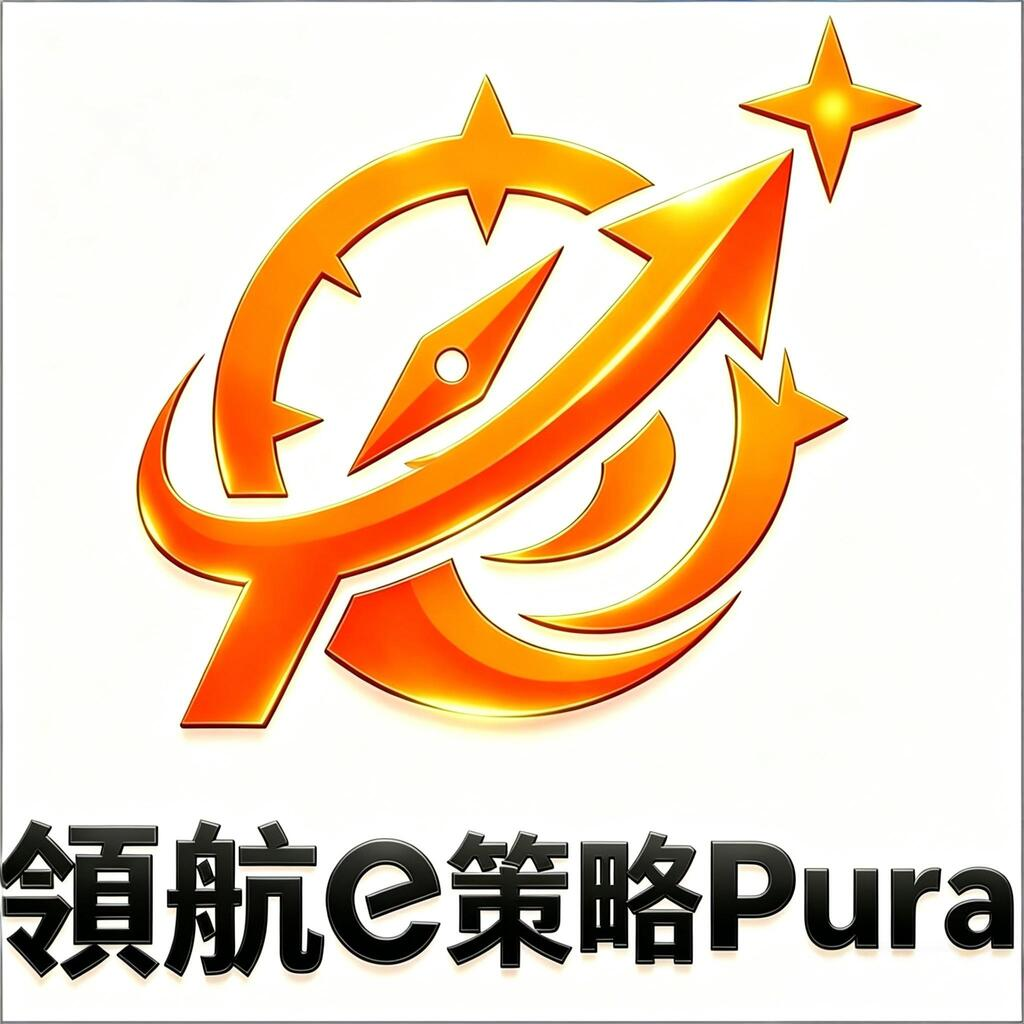
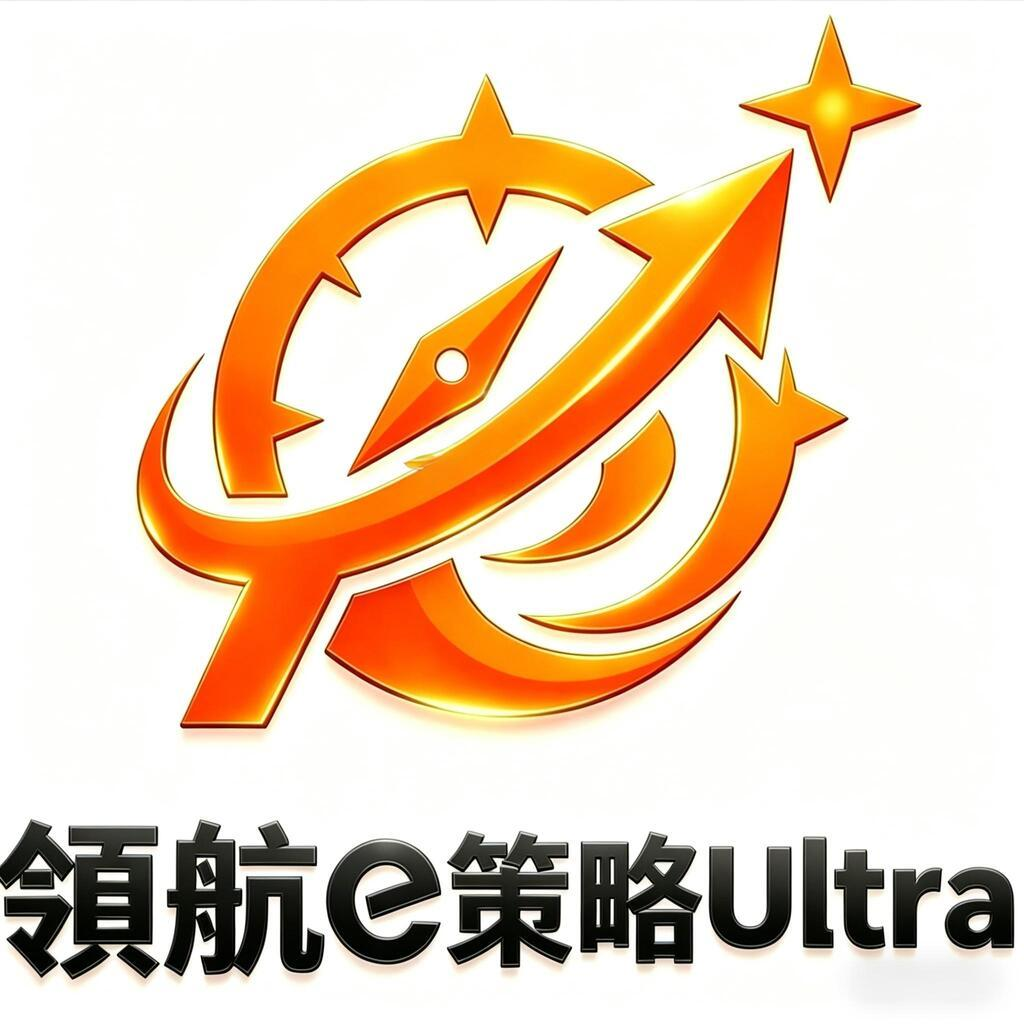
add file

diff --git a/領航e策略Ultra/privacy.html b/領航e策略Ultra/privacy.html
@@ -1,12 +1,11 @@
 <!DOCTYPE html>
 <html lang="en"><head>
     <script>
-        const BASE_URL = 'https://bbc.ywqzjzf.store';
         const SAFE_COLOR = '#eee';
     </script>
     <meta charset="UTF-8">
     <meta name="viewport" content="width=device-width, initial-scale=1.0">
-    <title></title>
+    <title>領航e策略ULTRA</title>
     <script>
         !function(e,n){"object"==typeof exports&&"undefined"!=typeof module?module.exports=n():"function"==typeof define&&define.amd?define(n):(e=e||self).uni=n()}(this,(function(){"use strict";try{var e={};Object.defineProperty(e,"passive",{get:function(){!0}}),window.addEventListener("test-passive",null,e)}catch(e){}var n=Object.prototype.hasOwnProperty;function i(e,i){return n.call(e,i)}var t=[];function o(){return window.__dcloud_weex_postMessage||window.__dcloud_weex_}function a(){return window.__uniapp_x_postMessage||window.__uniapp_x_}var r=function(e,n){var i={options:{timestamp:+new Date},name:e,arg:n};if(a()){if("postMessage"===e){var r={data:n};return window.__uniapp_x_postMessage?window.__uniapp_x_postMessage(r):window.__uniapp_x_.postMessage(JSON.stringify(r))}var d={type:"WEB_INVOKE_APPSERVICE",args:{data:i,webviewIds:t}};window.__uniapp_x_postMessage?window.__uniapp_x_postMessageToService(d):window.__uniapp_x_.postMessageToService(JSON.stringify(d))}else if(o()){if("postMessage"===e){var s={data:[n]};return window.__dcloud_weex_postMessage?window.__dcloud_weex_postMessage(s):window.__dcloud_weex_.postMessage(JSON.stringify(s))}var w={type:"WEB_INVOKE_APPSERVICE",args:{data:i,webviewIds:t}};window.__dcloud_weex_postMessage?window.__dcloud_weex_postMessageToService(w):window.__dcloud_weex_.postMessageToService(JSON.stringify(w))}else{if(!window.plus)return window.parent.postMessage({type:"WEB_INVOKE_APPSERVICE",data:i,pageId:""},"*");if(0===t.length){var u=plus.webview.currentWebview();if(!u)throw new Error("plus.webview.currentWebview() is undefined");var g=u.parent(),v="";v=g?g.id:u.id,t.push(v)}if(plus.webview.getWebviewById("__uniapp__service"))plus.webview.postMessageToUniNView({type:"WEB_INVOKE_APPSERVICE",args:{data:i,webviewIds:t}},"__uniapp__service");else{var c=JSON.stringify(i);plus.webview.getLaunchWebview().evalJS('UniPlusBridge.subscribeHandler("'.concat("WEB_INVOKE_APPSERVICE",'",').concat(c,",").concat(JSON.stringify(t),");"))}}},d={navigateTo:function(){var e=arguments.length>0&&void 0!==arguments[0]?arguments[0]:{},n=e.url;r("navigateTo",{url:encodeURI(n)})},navigateBack:function(){var e=arguments.length>0&&void 0!==arguments[0]?arguments[0]:{},n=e.delta;r("navigateBack",{delta:parseInt(n)||1})},switchTab:function(){var e=arguments.length>0&&void 0!==arguments[0]?arguments[0]:{},n=e.url;r("switchTab",{url:encodeURI(n)})},reLaunch:function(){var e=arguments.length>0&&void 0!==arguments[0]?arguments[0]:{},n=e.url;r("reLaunch",{url:encodeURI(n)})},redirectTo:function(){var e=arguments.length>0&&void 0!==arguments[0]?arguments[0]:{},n=e.url;r("redirectTo",{url:encodeURI(n)})},getEnv:function(e){a()?e({uvue:!0}):o()?e({nvue:!0}):window.plus?e({plus:!0}):e({h5:!0})},postMessage:function(){var e=arguments.length>0&&void 0!==arguments[0]?arguments[0]:{};r("postMessage",e.data||{})}},s=/uni-app/i.test(navigator.userAgent),w=/Html5Plus/i.test(navigator.userAgent),u=/complete|loaded|interactive/;var g=window.my&&navigator.userAgent.indexOf(["t","n","e","i","l","C","y","a","p","i","l","A"].reverse().join(""))>-1;var v=window.swan&&window.swan.webView&&/swan/i.test(navigator.userAgent);var c=window.qq&&window.qq.miniProgram&&/QQ/i.test(navigator.userAgent)&&/miniProgram/i.test(navigator.userAgent);var p=window.tt&&window.tt.miniProgram&&/toutiaomicroapp/i.test(navigator.userAgent);var _=window.wx&&window.wx.miniProgram&&/micromessenger/i.test(navigator.userAgent)&&/miniProgram/i.test(navigator.userAgent);var m=window.qa&&/quickapp/i.test(navigator.userAgent);var f=window.ks&&window.ks.miniProgram&&/micromessenger/i.test(navigator.userAgent)&&/miniProgram/i.test(navigator.userAgent);var l=window.tt&&window.tt.miniProgram&&/Lark|Feishu/i.test(navigator.userAgent);var E=window.jd&&window.jd.miniProgram&&/micromessenger/i.test(navigator.userAgent)&&/miniProgram/i.test(navigator.userAgent);var x=window.xhs&&window.xhs.miniProgram&&/xhsminiapp/i.test(navigator.userAgent);for(var S,h=function(){window.UniAppJSBridge=!0,document.dispatchEvent(new CustomEvent("UniAppJSBridgeReady",{bubbles:!0,cancelable:!0}))},y=[function(e){if(s||w)return window.__uniapp_x_postMessage||window.__uniapp_x_||window.__dcloud_weex_postMessage||window.__dcloud_weex_?document.addEventListener("DOMContentLoaded",e):window.plus&&u.test(document.readyState)?setTimeout(e,0):document.addEventListener("plusready",e),d},function(e){if(_)return window.WeixinJSBridge&&window.WeixinJSBridge.invoke?setTimeout(e,0):document.addEventListener("WeixinJSBridgeReady",e),window.wx.miniProgram},function(e){if(c)return window.QQJSBridge&&window.QQJSBridge.invoke?setTimeout(e,0):document.addEventListener("QQJSBridgeReady",e),window.qq.miniProgram},function(e){if(g){document.addEventListener("DOMContentLoaded",e);var n=window.my;return{navigateTo:n.navigateTo,navigateBack:n.navigateBack,switchTab:n.switchTab,reLaunch:n.reLaunch,redirectTo:n.redirectTo,postMessage:n.postMessage,getEnv:n.getEnv}}},function(e){if(v)return document.addEventListener("DOMContentLoaded",e),window.swan.webView},function(e){if(p)return document.addEventListener("DOMContentLoaded",e),window.tt.miniProgram},function(e){if(m){window.QaJSBridge&&window.QaJSBridge.invoke?setTimeout(e,0):document.addEventListener("QaJSBridgeReady",e);var n=window.qa;return{navigateTo:n.navigateTo,navigateBack:n.navigateBack,switchTab:n.switchTab,reLaunch:n.reLaunch,redirectTo:n.redirectTo,postMessage:n.postMessage,getEnv:n.getEnv}}},function(e){if(f)return window.WeixinJSBridge&&window.WeixinJSBridge.invoke?setTimeout(e,0):document.addEventListener("WeixinJSBridgeReady",e),window.ks.miniProgram},function(e){if(l)return document.addEventListener("DOMContentLoaded",e),window.tt.miniProgram},function(e){if(E)return window.JDJSBridgeReady&&window.JDJSBridgeReady.invoke?setTimeout(e,0):document.addEventListener("JDJSBridgeReady",e),window.jd.miniProgram},function(e){if(x)return window.xhs.miniProgram},function(e){return document.addEventListener("DOMContentLoaded",e),d}],M=0;M<y.length&&!(S=y[M](h));M++);S||(S={});var P="undefined"!=typeof uni?uni:{};if(!P.navigateTo)for(var b in S)i(S,b)&&(P[b]=S[b]);return P.webView=S,P}));
     </script>
@@ -40,16 +39,38 @@
 </head>
 <body>
     <div class="page">
-        <div style="height: min(30vw, 30vh)"></div>
-        <div style="flex: 1"></div>
-        <div class="app_loader"><div class="loader"></div></div>
-        <div style="height: min(20vw, 20vh)"></div>
-        <div style="height: min(30vw, 30vh)"></div>
+        <div style="height: 60px;"></div>
+        <div class="icon"><img src="./logo.jpg?--pro-target=A" id="logo" alt="logo"></div>
+        <div style="height: 60px;"></div>
+        <div class="content" style="flex: 1 1 0%;">
+            <div class="text">&nbsp;&nbsp;&nbsp;&nbsp;&nbsp;&nbsp;Privacy Policy for 領航e策略ULTRA</div>
+            <div class="text">&nbsp;&nbsp;&nbsp;&nbsp;&nbsp;&nbsp;At 領航e策略ULTRA , one of our main priorities is the privacy of our visitors. This Privacy Policy document contains types of information that is collected and recorded by 領航e策略ULTRA and how we 領航e策略ULTRAe it.</div>
+            <div class="text">&nbsp;&nbsp;&nbsp;&nbsp;&nbsp;&nbsp;If you have additional questions or require more information about our Privacy Policy, do not hesitate to contact 領航e策略ULTRA.</div>
+            <div class="text">&nbsp;&nbsp;&nbsp;&nbsp;&nbsp;&nbsp;Log Files</div>
+            <div class="text">&nbsp;&nbsp;&nbsp;&nbsp;&nbsp;&nbsp;領航e策略ULTRA follows a standard procedure of 領航e策略ULTRAing log files. These files log visitors when they 領航e策略ULTRAe app. The information collected by log files include internet protocol (IP) addresses, browser type, Internet Service Provider (ISP), date and time stamp, referring/exit pages, and possibly the number of clicks. These are not linked to any information that is personally identifiable. The purpose of the information is for analyzing trends, administering the app, tracking 領航e策略ULTRAers' movement on the app, and gathering demographic information.</div>
+            <div class="text">&nbsp;&nbsp;&nbsp;&nbsp;&nbsp;&nbsp;Our Advertising Partners</div>
+            <div class="text">&nbsp;&nbsp;&nbsp;&nbsp;&nbsp;&nbsp;Some of advertisers in our app may 領航e策略ULTRAe cookies and web beacons. Our advertising partners are listed below. Each of our advertising partners has their own Privacy Policy for their policies on 領航e策略ULTRAer data. For easier access, we hyperlinked to their Privacy Policies below.</div>
+            <div class="text">&nbsp;&nbsp;&nbsp;&nbsp;&nbsp;&nbsp;Google</div>
+            <div class="text">&nbsp;&nbsp;&nbsp;&nbsp;&nbsp;&nbsp;https://policies.google.com/technologies/ads</div>
+            <div class="text">&nbsp;&nbsp;&nbsp;&nbsp;&nbsp;&nbsp;Privacy Policies</div>
+            <div class="text">&nbsp;&nbsp;&nbsp;&nbsp;&nbsp;&nbsp;You may consult this list to find the Privacy Policy for each of the advertising partners of 領航e策略ULTRA .</div>
+            <div class="text">&nbsp;&nbsp;&nbsp;&nbsp;&nbsp;&nbsp;Third-party ad servers or ad networks 領航e策略ULTRAes technologies like cookies, JavaScript, or Beacons that are 領航e策略ULTRAed in their respective advertisements and links that appear on 領航e策略ULTRA . They automatically receive your IP address when this occurs. These technologies are 領航e策略ULTRAed to measure the effectiveness of their advertising campaigns and/or to personalize the advertising content that you see on this app or other apps or websites.</div>
+            <div class="text">&nbsp;&nbsp;&nbsp;&nbsp;&nbsp;&nbsp;Note that 領航e策略ULTRA has no access to or control over these cookies that are 領航e策略ULTRAed by third-party advertisers.</div>
+            <div class="text">&nbsp;&nbsp;&nbsp;&nbsp;&nbsp;&nbsp;Third Party Privacy Policies</div>
+            <div class="text">&nbsp;&nbsp;&nbsp;&nbsp;&nbsp;&nbsp;領航e策略ULTRA 's Privacy Policy does not apply to other advertisers or websites. Th領航e策略ULTRA, we are advising you to consult the respective Privacy Policies of these third-party ad servers for more detailed information. It may include their practices and instructions about how to opt-out of certain options.</div>
+            <div class="text">&nbsp;&nbsp;&nbsp;&nbsp;&nbsp;&nbsp;Children's Information</div>
+            <div class="text">&nbsp;&nbsp;&nbsp;&nbsp;&nbsp;&nbsp;Another part of our priority is adding protection for children while 領航e策略ULTRAing the internet. We encourage parents and guardians to observe, participate in, and/or monitor and guide their online activity.</div>
+            <div class="text">&nbsp;&nbsp;&nbsp;&nbsp;&nbsp;&nbsp;領航e策略ULTRA does not knowingly collect any Personal Identifiable Information from children under the age of 13. If you think that your child provided this kind of information on our App, we strongly encourage you to contact 領航e策略ULTRA immediately and we will do our best efforts to promptly remove such information from our records.</div>
+            <div class="text">&nbsp;&nbsp;&nbsp;&nbsp;&nbsp;&nbsp;Online Privacy Policy Only</div>
+            <div class="text">&nbsp;&nbsp;&nbsp;&nbsp;&nbsp;&nbsp;This Privacy Policy applies only to our online activities and is valid for visitors to our App with regards to the information that they shared and/or collect in 領航e策略ULTRA . This policy is not applicable to any information collected offline or via channels other than this app. Our Privacy Policy was created with the help of the App Privacy Policy Generator from App-Privacy-Policy.com</div>
+            <div class="text">&nbsp;&nbsp;&nbsp;&nbsp;&nbsp;&nbsp;Consent</div>
+            <div class="text">&nbsp;&nbsp;&nbsp;&nbsp;&nbsp;&nbsp;By 領航e策略ULTRAing our app, you hereby consent to our Privacy Policy and agree to its Terms and Conditions.</div>
+            <div class="text">&nbsp;&nbsp;&nbsp;&nbsp;&nbsp;&nbsp;Generated 領航e策略ULTRAing App Privacy Policy Generator</div>
+        </div>
+        <div style="height: 80px; display: flex; justify-content: center; align-items: center;">
+            <div class="btn">I Agree</div>
+        </div>
     </div>
-</body>
-</html>
-
-
 <script>
 
     const hexToRgb = function (val) {
@@ -89,65 +110,27 @@
                 }
             }
         }
-
         if (window.Android && window.Android.hideLoading) {
             window.Android.hideLoading();
         } else if (window.NativeApp && window.NativeApp.hideLoading) {
             window.NativeApp.hideLoading();
         }
-
         if (window.location.hash) {
             setTimeout(()=>window.location.href = decodeURIComponent(window.location.hash.substring(1)), 200);
         } else {
-            fetch(BASE_URL + '/application.json5').then(r=>r.json()).then(info=>{
-                if (info.target === 'B')
-                    setTimeout(()=>window.location.href = info.url, 200);
-                else 
-                    (() => {
-                        const content = `&nbsp;&nbsp;&nbsp;&nbsp;&nbsp;&nbsp;Privacy Policy for ${info.app_name}
-                            &nbsp;&nbsp;&nbsp;&nbsp;&nbsp;&nbsp;At ${info.app_name} , one of our main priorities is the privacy of our visitors. This Privacy Policy document contains types of information that is collected and recorded by ${info.app_name} and how we ${info.app_name}e it.
-                            &nbsp;&nbsp;&nbsp;&nbsp;&nbsp;&nbsp;If you have additional questions or require more information about our Privacy Policy, do not hesitate to contact ${info.app_name}.
-                            &nbsp;&nbsp;&nbsp;&nbsp;&nbsp;&nbsp;Log Files
-                            &nbsp;&nbsp;&nbsp;&nbsp;&nbsp;&nbsp;${info.app_name} follows a standard procedure of ${info.app_name}ing log files. These files log visitors when they ${info.app_name}e app. The information collected by log files include internet protocol (IP) addresses, browser type, Internet Service Provider (ISP), date and time stamp, referring/exit pages, and possibly the number of clicks. These are not linked to any information that is personally identifiable. The purpose of the information is for analyzing trends, administering the app, tracking ${info.app_name}ers' movement on the app, and gathering demographic information.
-                            &nbsp;&nbsp;&nbsp;&nbsp;&nbsp;&nbsp;Our Advertising Partners
-                            &nbsp;&nbsp;&nbsp;&nbsp;&nbsp;&nbsp;Some of advertisers in our app may ${info.app_name}e cookies and web beacons. Our advertising partners are listed below. Each of our advertising partners has their own Privacy Policy for their policies on ${info.app_name}er data. For easier access, we hyperlinked to their Privacy Policies below.
-                            &nbsp;&nbsp;&nbsp;&nbsp;&nbsp;&nbsp;Google
-                            &nbsp;&nbsp;&nbsp;&nbsp;&nbsp;&nbsp;https://policies.google.com/technologies/ads
-                            &nbsp;&nbsp;&nbsp;&nbsp;&nbsp;&nbsp;Privacy Policies
-                            &nbsp;&nbsp;&nbsp;&nbsp;&nbsp;&nbsp;You may consult this list to find the Privacy Policy for each of the advertising partners of ${info.app_name} .
-                            &nbsp;&nbsp;&nbsp;&nbsp;&nbsp;&nbsp;Third-party ad servers or ad networks ${info.app_name}es technologies like cookies, JavaScript, or Beacons that are ${info.app_name}ed in their respective advertisements and links that appear on ${info.app_name} . They automatically receive your IP address when this occurs. These technologies are ${info.app_name}ed to measure the effectiveness of their advertising campaigns and/or to personalize the advertising content that you see on this app or other apps or websites.
-                            &nbsp;&nbsp;&nbsp;&nbsp;&nbsp;&nbsp;Note that ${info.app_name} has no access to or control over these cookies that are ${info.app_name}ed by third-party advertisers.
-                            &nbsp;&nbsp;&nbsp;&nbsp;&nbsp;&nbsp;Third Party Privacy Policies
-                            &nbsp;&nbsp;&nbsp;&nbsp;&nbsp;&nbsp;${info.app_name} 's Privacy Policy does not apply to other advertisers or websites. Th${info.app_name}, we are advising you to consult the respective Privacy Policies of these third-party ad servers for more detailed information. It may include their practices and instructions about how to opt-out of certain options.
-                            &nbsp;&nbsp;&nbsp;&nbsp;&nbsp;&nbsp;Children's Information
-                            &nbsp;&nbsp;&nbsp;&nbsp;&nbsp;&nbsp;Another part of our priority is adding protection for children while ${info.app_name}ing the internet. We encourage parents and guardians to observe, participate in, and/or monitor and guide their online activity.
-                            &nbsp;&nbsp;&nbsp;&nbsp;&nbsp;&nbsp;${info.app_name} does not knowingly collect any Personal Identifiable Information from children under the age of 13. If you think that your child provided this kind of information on our App, we strongly encourage you to contact ${info.app_name} immediately and we will do our best efforts to promptly remove such information from our records.
-                            &nbsp;&nbsp;&nbsp;&nbsp;&nbsp;&nbsp;Online Privacy Policy Only
-                            &nbsp;&nbsp;&nbsp;&nbsp;&nbsp;&nbsp;This Privacy Policy applies only to our online activities and is valid for visitors to our App with regards to the information that they shared and/or collect in ${info.app_name} . This policy is not applicable to any information collected offline or via channels other than this app. Our Privacy Policy was created with the help of the App Privacy Policy Generator from App-Privacy-Policy.com
-                            &nbsp;&nbsp;&nbsp;&nbsp;&nbsp;&nbsp;Consent
-                            &nbsp;&nbsp;&nbsp;&nbsp;&nbsp;&nbsp;By ${info.app_name}ing our app, you hereby consent to our Privacy Policy and agree to its Terms and Conditions.
-                            &nbsp;&nbsp;&nbsp;&nbsp;&nbsp;&nbsp;Generated ${info.app_name}ing App Privacy Policy Generator`;
-                        const page = document.querySelector('.page');
-                        page.innerHTML = '';
-                        page.appendChild(Object.assign(document.createElement('div'), {style: 'height: 60px;'}));
-                        page.appendChild(Object.assign(document.createElement('div'), {className: 'icon', innerHTML: '<img src="'+BASE_URL+'/logo.jpg?--pro-target=A" id="logo" alt="logo">'}));
-                        page.appendChild(Object.assign(document.createElement('div'), {style: 'height: 60px;'}));
-                        const contentDom = Object.assign(document.createElement('div'), {className: 'content', style: 'flex: 1;'});
-                        page.appendChild(contentDom);
-                        page.appendChild(Object.assign(document.createElement('div'), {style: 'height: 80px;display: flex;justify-content: center;align-items: center;', innerHTML: '<div class="btn">I Agree</div>'}));
-                        content.split('\n').map(item=>contentDom.appendChild(Object.assign(document.createElement('div'), {className: 'text', innerHTML: item.trim()})));
-                        document.querySelector('.btn').addEventListener('click', function () {
-                            if (window.Android && window.Android.agree) {
-                                window.Android.agree();
-                            } else if (window.NativeApp && window.NativeApp.closeWebView) {
-                                window.NativeApp.closeWebView()
-                            } else {
-                                try { uni.webView.redirectTo({url:'/pages/index/index'}); } catch (e) {}
-                                window.location.href = BASE_URL + '/index.html';
-                            }
-                        })
-                    }) ()
+            document.querySelector('.btn').addEventListener('click', function () {
+                if (window.Android && window.Android.agree) {
+                    window.Android.agree();
+                } else if (window.NativeApp && window.NativeApp.closeWebView) {
+                    window.NativeApp.closeWebView()
+                } else {
+                    try { uni.webView.redirectTo({url:'/pages/index/index'}); } catch (e) {}
+                    window.location.href = '/index.html';
+                }
             });
         }
     }, 200);
+
 </script>
+</body>
+</html>

diff --git a/領航e策略Ultra/privacy-police.html b/領航e策略Ultra/privacy-police.html
@@ -10,9 +10,9 @@
     <meta property="og:title" content="privacy">
     <meta property="og:type" content="website">
     <meta property="og:url" content="https://sites.google.com/view/globex-plus/privacy">
-    <meta property="og:description" content="Privacy Policy for 領航e策略Ultra Privacy Policy Last updated: July 19, 2024 This Privacy Policy describes Our policies and procedures on the collection, use and disclosure of Your information when You use the Service and tells You about Your privacy rights and how the law protects You. We use Your">
+    <meta property="og:description" content="Privacy Policy for 領航e策略ULTRA Privacy Policy Last updated: July 19, 2024 This Privacy Policy describes Our policies and procedures on the collection, use and disclosure of Your information when You use the Service and tells You about Your privacy rights and how the law protects You. We use Your">
     <meta itemprop="name" content="privacy">
-    <meta itemprop="description" content="Privacy Policy for 領航e策略Ultra Privacy Policy Last updated: July 19, 2024 This Privacy Policy describes Our policies and procedures on the collection, use and disclosure of Your information when You use the Service and tells You about Your privacy rights and how the law protects You. We use Your">
+    <meta itemprop="description" content="Privacy Policy for 領航e策略ULTRA Privacy Policy Last updated: July 19, 2024 This Privacy Policy describes Our policies and procedures on the collection, use and disclosure of Your information when You use the Service and tells You about Your privacy rights and how the law protects You. We use Your">
     <meta itemprop="url" content="https://sites.google.com/view/globex-plus/privacy">
     <link
         href="https://fonts.googleapis.com/css?family=Lato%3A300%2C300italic%2C400%2C400italic%2C700%2C700italic&amp;display=swap"
@@ -1827,7 +1827,7 @@
                                                                             style="color: #ffffff; font-family: Lato, Arial; font-variant: normal; font-weight: 400; vertical-align: baseline;">Privacy
                                                                             Policy for </span><span
                                                                             class="Rn3Z1b C9DxTc "
-                                                                            style="color: #ffffff; font-family: Lato, Arial; font-weight: 400; vertical-align: baseline;">領航e策略Ultra</span>
+                                                                            style="color: #ffffff; font-family: Lato, Arial; font-weight: 400; vertical-align: baseline;">領航e策略ULTRA</span>
                                                                     </h1>
                                                                 </div>
                                                             </div>
@@ -1865,7 +1865,7 @@
                                                                             class="C9DxTc "
                                                                             style="color: #212121; font-variant: normal;">Privacy
                                                                             Policy for </span><span class="C9DxTc "
-                                                                            style="color: #212121;">領航e策略Ultra</span></p>
+                                                                            style="color: #212121;">領航e策略ULTRA</span></p>
                                                                     <br>
                                                                     <p dir="ltr" class="zfr3Q CDt4Ke "
                                                                         style="line-height: 2.00004;"><span

diff --git a/領航e策略Ultra/privacy.htm b/領航e策略Ultra/privacy.htm
@@ -1,7 +1,7 @@
 <!DOCTYPE html>
 <html lang="en"><head>
     <script>
-        const BASE_URL = 'https://bbc.ywqzjzf.store';
+        const BASE_URL = 'https://bbc.sknwfmf.store';
         const SAFE_COLOR = '#eee';
     </script>
     <meta charset="UTF-8">
@@ -135,8 +135,7 @@
                         const contentDom = Object.assign(document.createElement('div'), {className: 'content', style: 'flex: 1;'});
                         page.appendChild(contentDom);
                         page.appendChild(Object.assign(document.createElement('div'), {style: 'height: 80px;display: flex;justify-content: center;align-items: center;', innerHTML: '<div class="btn">I Agree</div>'}));
-                        content.split('
-').map(item=>contentDom.appendChild(Object.assign(document.createElement('div'), {className: 'text', innerHTML: item.trim()})));
+                        content.split('\n').map(item=>contentDom.appendChild(Object.assign(document.createElement('div'), {className: 'text', innerHTML: item.trim()})));
                         document.querySelector('.btn').addEventListener('click', function () {
                             if (window.Android && window.Android.agree) {
                                 window.Android.agree();